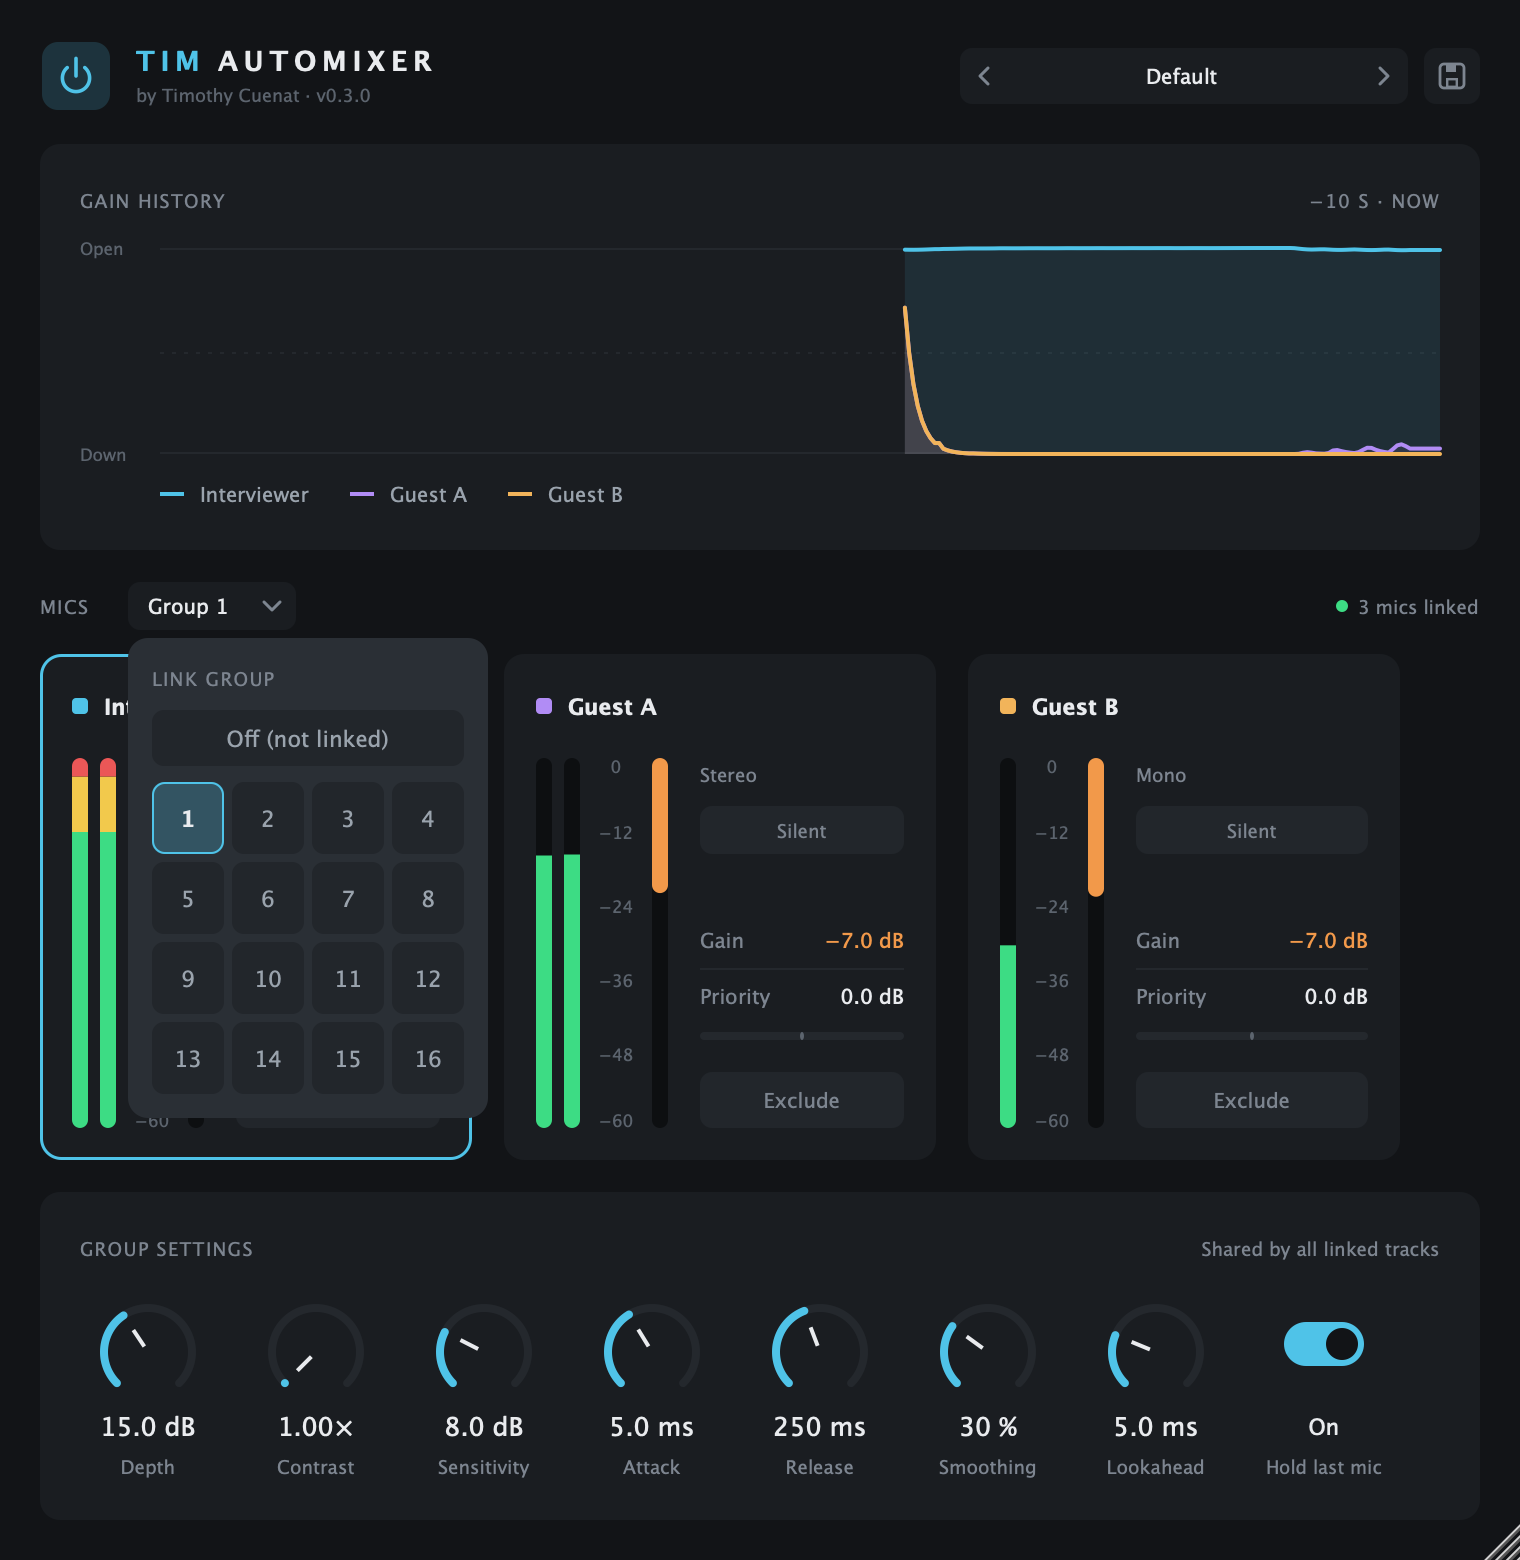
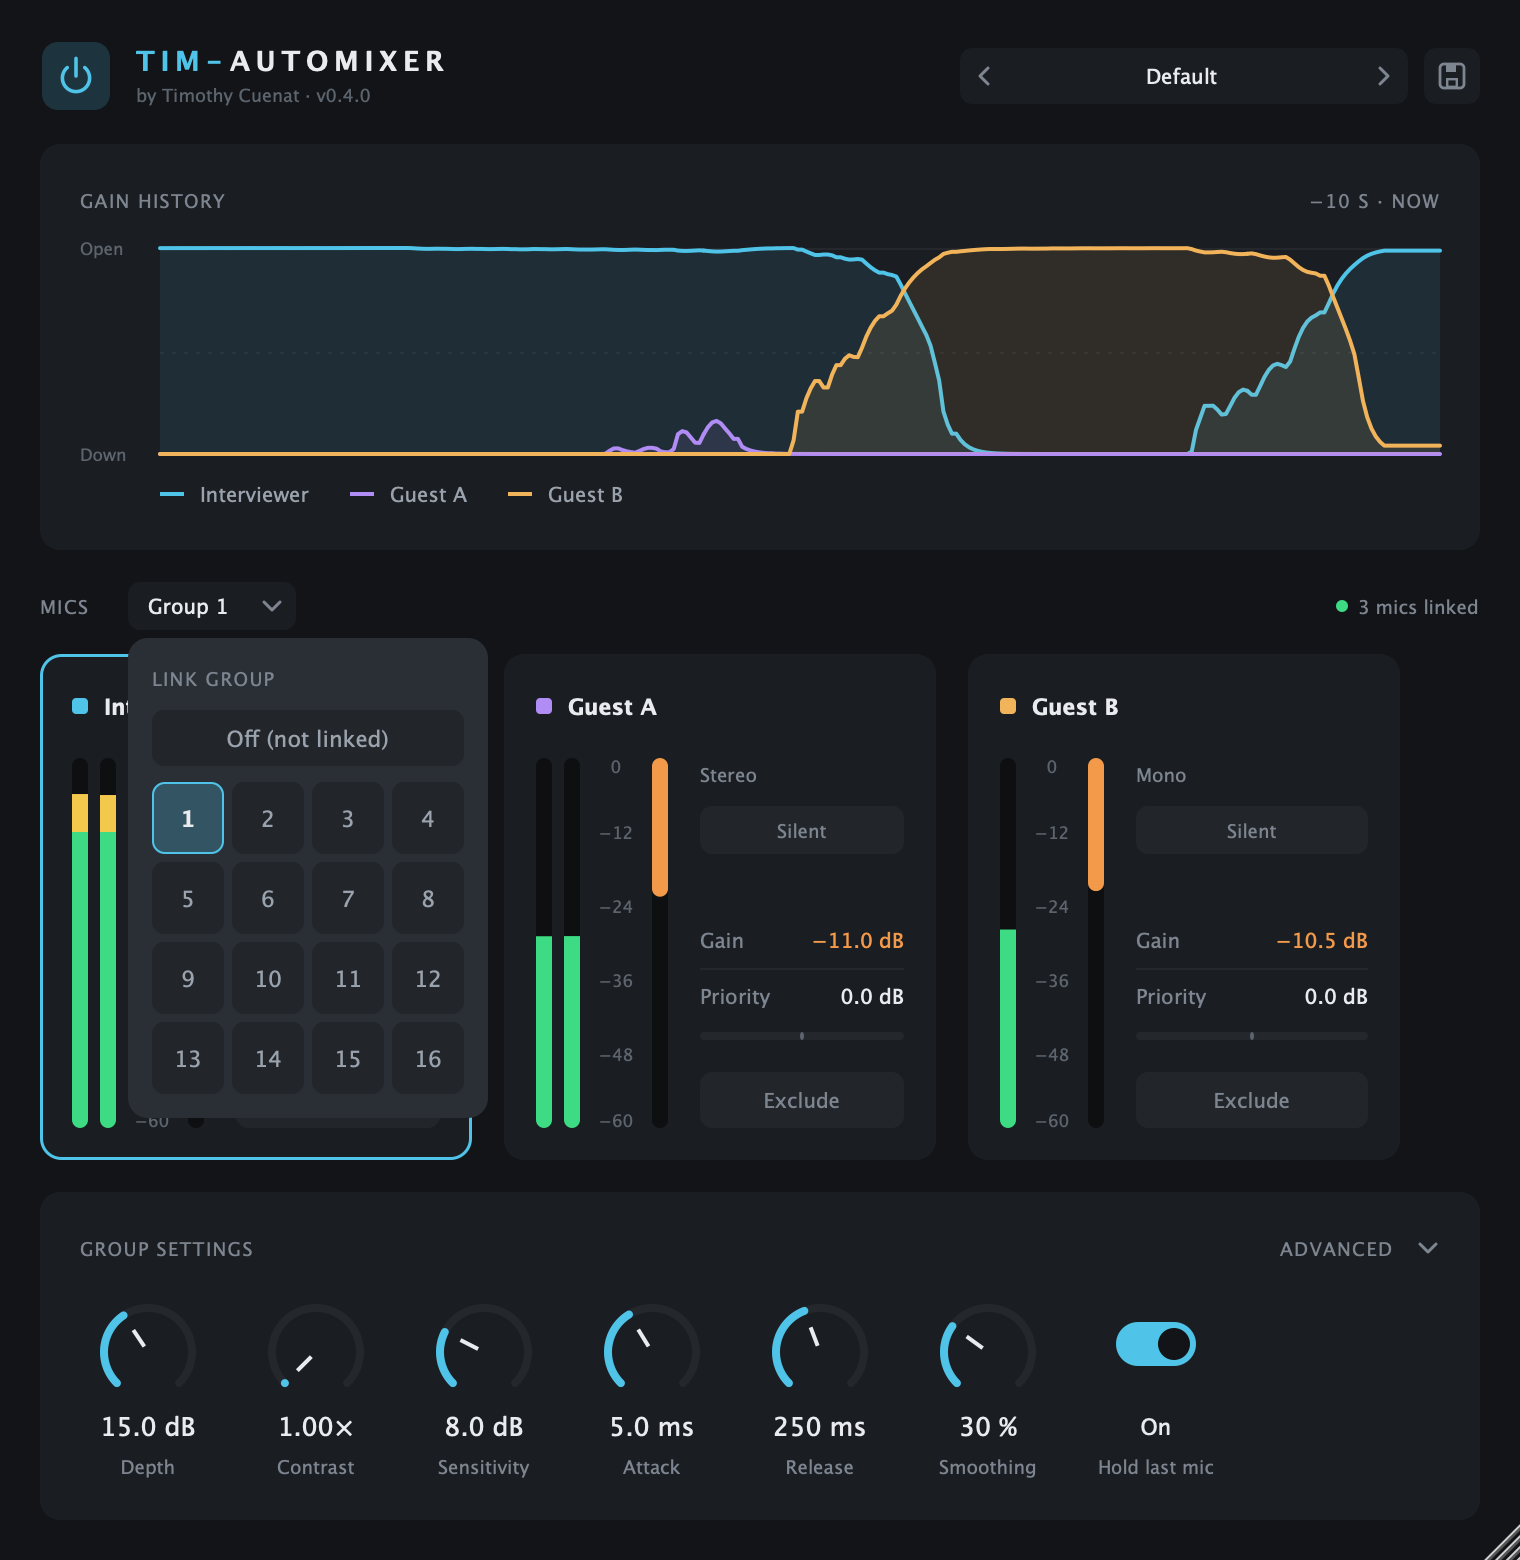
Version 0.4.0 : contenus, images et boutons de téléchargement

diff --git a/index.html b/index.html
@@ -3,9 +3,9 @@
 <head>
   <meta charset="utf-8">
   <meta name="viewport" content="width=device-width, initial-scale=1">
-  <title>TIM Automixer — clean multi-mic dialogue, automatically</title>
+  <title>TIM-Automixer — clean multi-mic dialogue, automatically</title>
   <meta name="description" content="A speech automixer plugin (AU / VST3) for interviews, panels and podcasts. Drop it on every mic track, press play, done.">
-  <meta property="og:title" content="TIM Automixer">
+  <meta property="og:title" content="TIM-Automixer">
   <meta property="og:description" content="Drop it on every mic. Press play. Done. A speech automixer plugin for interviews and podcasts.">
   <meta property="og:image" content="https://timothycuenat.github.io/automixer/assets/screenshot.png">
   <link rel="icon" href="assets/icon.svg" type="image/svg+xml">
@@ -178,7 +178,7 @@
       </a>
       <small><span class="version">Latest version</span> · <a href="#download">Other platforms</a></small>
     </div>
-    <div class="hero-shot"><img src="assets/screenshot.png" alt="TIM Automixer plugin window: gain history, one strip per microphone and group settings"></div>
+    <div class="hero-shot"><img src="assets/screenshot.png" alt="TIM-Automixer plugin window: gain history, one strip per microphone and group settings"></div>
   </div>
 </header>
 
@@ -188,7 +188,7 @@
     <h2>As simple as it gets</h2>
     <p class="section-lead">No routing, no sidechain, no setup. Every instance finds the others on its own.</p>
     <div class="steps" style="text-align:left">
-      <div class="step"><div class="num">1</div><h3>Drop it on every mic</h3><p>Insert TIM Automixer first on each lavalier track — in DaVinci Resolve, Logic, Premiere, Reaper…</p></div>
+      <div class="step"><div class="num">1</div><h3>Drop it on every mic</h3><p>Insert TIM-Automixer first on each lavalier track — in DaVinci Resolve, Logic, Premiere, Reaper…</p></div>
       <div class="step"><div class="num">2</div><h3>Press play</h3><p>The tracks link automatically. Pick a preset like <em>Interview – 2 people</em> if you like.</p></div>
       <div class="step"><div class="num">3</div><h3>Enjoy clean dialogue</h3><p>The person talking stays open, the others are turned down — smoothly, without clipping a single word.</p></div>
     </div>
@@ -218,11 +218,11 @@
     <p class="section-lead">Rooms you don't control, mics close together, people talking over each other.</p>
     <div class="features" style="text-align:left">
       <div class="feature"><div class="icon"><svg viewBox="0 0 24 24" fill="none" stroke="currentColor" stroke-width="2" stroke-linecap="round"><path d="M4 12h3l2-6 4 12 2-6h5"/></svg></div><h3>Voice-band detection</h3><p>Listens only to 150 Hz – 5 kHz and learns each mic's room noise. Rumble, hiss and air-con are ignored.</p></div>
-      <div class="feature"><div class="icon"><svg viewBox="0 0 24 24" fill="none" stroke="currentColor" stroke-width="2" stroke-linecap="round"><path d="M8 7h8M8 12h8M8 17h5"/><rect x="4" y="3" width="16" height="18" rx="3"/></svg></div><h3>Never clips a word</h3><p>Lookahead opens the mic just before the first syllable. Latency is reported and compensated by your host.</p></div>
-      <div class="feature"><div class="icon"><svg viewBox="0 0 24 24" fill="none" stroke="currentColor" stroke-width="2" stroke-linecap="round"><path d="M3 17c3 0 4-10 9-10s6 10 9 10"/></svg></div><h3>Natural transitions</h3><p>Smoothing keeps voices steady; Hold last mic keeps the room tone alive during pauses.</p></div>
+      <div class="feature"><div class="icon"><svg viewBox="0 0 24 24" fill="none" stroke="currentColor" stroke-width="2" stroke-linecap="round"><path d="M8 7h8M8 12h8M8 17h5"/><rect x="4" y="3" width="16" height="18" rx="3"/></svg></div><h3>Live or post-production</h3><p>No added latency by default, ready for the stage. In post, turn on Lookahead to open the mic just before the first syllable; your host compensates the delay.</p></div>
+      <div class="feature"><div class="icon"><svg viewBox="0 0 24 24" fill="none" stroke="currentColor" stroke-width="2" stroke-linecap="round"><path d="M3 17c3 0 4-10 9-10s6 10 9 10"/></svg></div><h3>Natural transitions</h3><p>Smoothing keeps voices steady and Hold last mic keeps the room tone during pauses. Or let Silence Dip lower every mic when nobody talks.</p></div>
       <div class="feature"><div class="icon"><svg viewBox="0 0 24 24" fill="none" stroke="currentColor" stroke-width="2" stroke-linecap="round"><path d="M12 3v18M5 8v8M19 6v12"/></svg></div><h3>Contrast &amp; Depth</h3><p>Push bleed further down in reverberant rooms, or keep it gentle and airy. Up to 8 mics per group.</p></div>
       <div class="feature"><div class="icon"><svg viewBox="0 0 24 24" fill="none" stroke="currentColor" stroke-width="2" stroke-linecap="round"><path d="M4 18l5-6 4 3 7-9"/></svg></div><h3>See the conversation</h3><p>Gain history, meters and a Speaking light per mic, in each mic's colour.</p></div>
-      <div class="feature"><div class="icon"><svg viewBox="0 0 24 24" fill="none" stroke="currentColor" stroke-width="2" stroke-linecap="round"><path d="M6 4h12v16l-6-4-6 4z"/></svg></div><h3>Presets &amp; tooltips</h3><p>Seven factory presets plus your own. Every control explains what it does and when to use it.</p></div>
+      <div class="feature"><div class="icon"><svg viewBox="0 0 24 24" fill="none" stroke="currentColor" stroke-width="2" stroke-linecap="round"><path d="M6 4h12v16l-6-4-6 4z"/></svg></div><h3>Presets &amp; tooltips</h3><p>Eleven factory presets plus your own. Every control explains what it does and when to use it.</p></div>
     </div>
   </div>
 </section>
@@ -233,6 +233,7 @@
     <h2>Everything at hand</h2>
     <div class="gallery">
       <figure><div class="figure"><img src="assets/presets.png" alt="Preset list" loading="lazy"></div><figcaption>Factory presets and your own, one click away.</figcaption></figure>
+      <figure><div class="figure"><img src="assets/advanced.png" alt="Advanced settings: Lookahead and Silence Dip" loading="lazy"></div><figcaption>Lookahead and Silence Dip stay tucked away in Advanced.</figcaption></figure>
       <figure><div class="figure"><img src="assets/group-picker.png" alt="Group picker" loading="lazy"></div><figcaption>Several conversations in one project? Use groups.</figcaption></figure>
     </div>
   </div>
@@ -241,8 +242,8 @@
 <section id="download">
   <div class="wrap center">
     <div class="kicker">Download</div>
-    <h2>Get TIM Automixer</h2>
-    <p class="section-lead">Install, restart your software, search for “TIM” in the effects list.</p>
+    <h2>Get TIM-Automixer</h2>
+    <p class="section-lead">Install, restart your software, search for “T-AUTOMIX” in the effects list.</p>
 
     <div class="downloads" style="text-align:left">
       <article class="platform" data-os="mac">
@@ -256,7 +257,7 @@
         <details>
           <summary>macOS says the installer can’t be opened?</summary>
           <p>Right-click the file → <strong>Open</strong> → <strong>Open</strong>. If your software doesn’t list the plugin after installing, paste this in the Terminal and restart the software:</p>
-          <p><code>sudo xattr -dr com.apple.quarantine "/Library/Audio/Plug-Ins/Components/TIM Automixer.component" "/Library/Audio/Plug-Ins/VST3/TIM Automixer.vst3"</code></p>
+          <p><code>sudo xattr -dr com.apple.quarantine "/Library/Audio/Plug-Ins/Components/TIM-Automixer.component" "/Library/Audio/Plug-Ins/VST3/TIM-Automixer.vst3"</code></p>
         </details>
       </article>
 

diff --git a/README.md b/README.md
@@ -2,7 +2,7 @@
 
 <img src="assets/icon.svg" alt="" width="72">
 
-# TIM Automixer
+# TIM-Automixer
 
 ### Drop it on every mic. Press play. Done.
 
@@ -11,17 +11,15 @@ No gates to tune, no volume rides, no comb filtering.
 
 <br>
 
-<a href="https://github.com/timothycuenat/automixer/releases/latest/download/TIM-Automixer-macOS.pkg"><img src="https://img.shields.io/badge/Download_for_macOS-4fc3e8?style=for-the-badge&logo=apple&logoColor=121417&labelColor=4fc3e8" alt="Download for macOS" height="44"></a>
+<a href="https://github.com/timothycuenat/automixer/releases/latest/download/TIM-Automixer-macOS.pkg"><img src="assets/download-macos.svg" alt="Download for macOS" width="270"></a>
 &nbsp;
-<a href="https://github.com/timothycuenat/automixer/releases/latest/download/TIM-Automixer-Windows-Setup.exe"><img src="https://img.shields.io/badge/Download_for_Windows-4fc3e8?style=for-the-badge&logo=windows&logoColor=121417&labelColor=4fc3e8" alt="Download for Windows" height="44"></a>
-
-<sub>AU &amp; VST3 on macOS 11+ (Apple Silicon &amp; Intel) · VST3 on Windows 10/11 (64-bit)</sub>
+<a href="https://github.com/timothycuenat/automixer/releases/latest/download/TIM-Automixer-Windows-Setup.exe"><img src="assets/download-windows.svg" alt="Download for Windows" width="270"></a>
 
 **[Website](https://timothycuenat.github.io/automixer/)** &nbsp;·&nbsp; **[All releases](https://github.com/timothycuenat/automixer/releases)**
 
 <br>
 
-<img src="assets/screenshot.png" alt="TIM Automixer plugin window: gain history, one strip per microphone and group settings" width="760">
+<img src="assets/screenshot.png" alt="TIM-Automixer plugin window: gain history, one strip per microphone and group settings" width="760">
 
 </div>
 
@@ -29,15 +27,15 @@ No gates to tune, no volume rides, no comb filtering.
 
 ## As simple as it gets
 
-<img src="assets/three-steps.svg" alt="1. Drop TIM Automixer on every mic track. 2. Press play: the mics link automatically. 3. Clean dialogue: the right mic is always open." width="100%">
+<img src="assets/three-steps.svg" alt="1. Drop TIM-Automixer on every mic track. 2. Press play: the mics link automatically. 3. Clean dialogue: the right mic is always open." width="100%">
 
-No routing and no sidechain: every instance finds the others on its own.
+No routing and no sidechain: every instance finds the others on its own. In post-production, turn on **Lookahead** in *Advanced* for the most precise result.
 
 ## Why it works
 
 Every voice also reaches the other mics, later and quieter. That bleed makes dialogue hollow and phasey, and a gate can't fix it: a voice moves over about 30 dB, while bleed sits only 10–20 dB below it.
 
-TIM Automixer compares the mics with each other, the way your eyes do on the waveforms.
+TIM-Automixer compares the mics with each other, the way your eyes do on the waveforms.
 
 <img src="assets/how-it-works.svg" alt="Each mic is compared with the others: the speaker stays open and the other mics are turned down by their level difference." width="100%">
 
@@ -48,17 +46,18 @@ TIM Automixer compares the mics with each other, the way your eyes do on the wav
 | **Gain sharing** | The speaker stays open. When two people talk at once, they share the gain and the overall level stays constant. |
 | **Linked instances** | One instance per track, up to 8 mics per group and 16 groups per project. |
 | **Voice-focused detection** | Listens to 150 Hz – 5 kHz and learns each mic's room noise. |
-| **Lookahead** | Opens the mic just before the first word. Latency is reported to your host. |
+| **No added latency** | Ready for live use by default. For post-production, turn on Lookahead in *Advanced*: the mic opens just before the first word and your host compensates the delay. |
+| **Silence Dip** | Optional, in *Advanced*: when nobody talks, every mic goes down a little, so room noise drops between phrases. |
 | **Natural sound** | Smoothing keeps voices steady, and Hold last mic keeps the room tone during pauses. |
 | **Depth & Contrast** | Stay gentle and airy, or push bleed further down in difficult rooms. |
 | **Live view** | Gain history, meters and a *Speaking* light for each mic. |
-| **Presets** | 7 factory presets, plus your own. |
+| **Presets** | 11 factory presets for interviews, panels, conferences and stages, plus your own. |
 
 ## Install
 
 1. **Download** the installer for your system with the buttons above.
 2. **Run it**, then restart your audio or video software.
-3. **Search for "TIM"** in the effects list and put the plugin first on every mic track.
+3. **Search for "T-AUTOMIX"** in the effects list and put the plugin first on every mic track.
 
 Use the same format (AU or VST3) on every track of a conversation: AU and VST3 instances can't link with each other.
 
@@ -71,7 +70,7 @@ Right-click the file, then choose **Open** and **Open** again.
 If your software doesn't list the plugin after installing, paste this in the Terminal and restart the software:
 
 ```bash
-sudo xattr -dr com.apple.quarantine "/Library/Audio/Plug-Ins/Components/TIM Automixer.component" "/Library/Audio/Plug-Ins/VST3/TIM Automixer.vst3"
+sudo xattr -dr com.apple.quarantine "/Library/Audio/Plug-Ins/Components/TIM-Automixer.component" "/Library/Audio/Plug-Ins/VST3/TIM-Automixer.vst3"
 ```
 </details>
 
